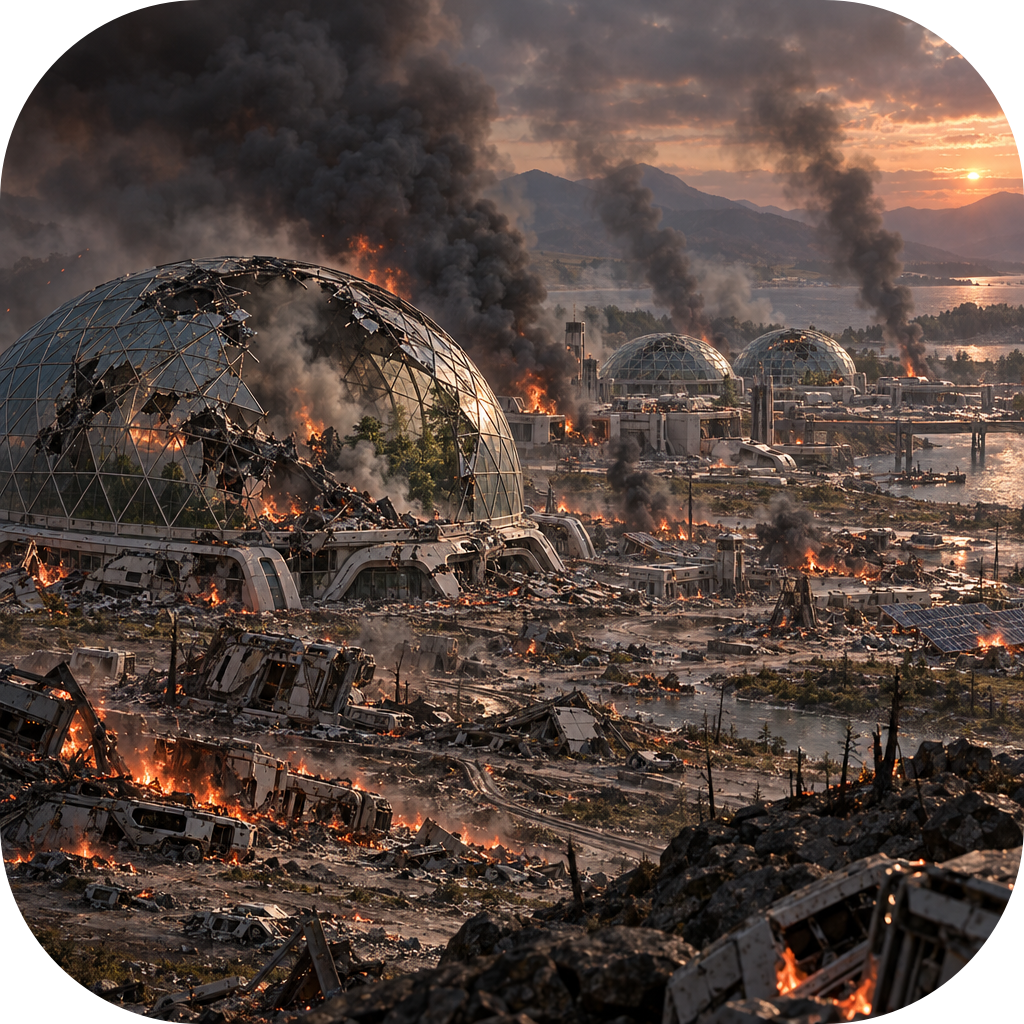
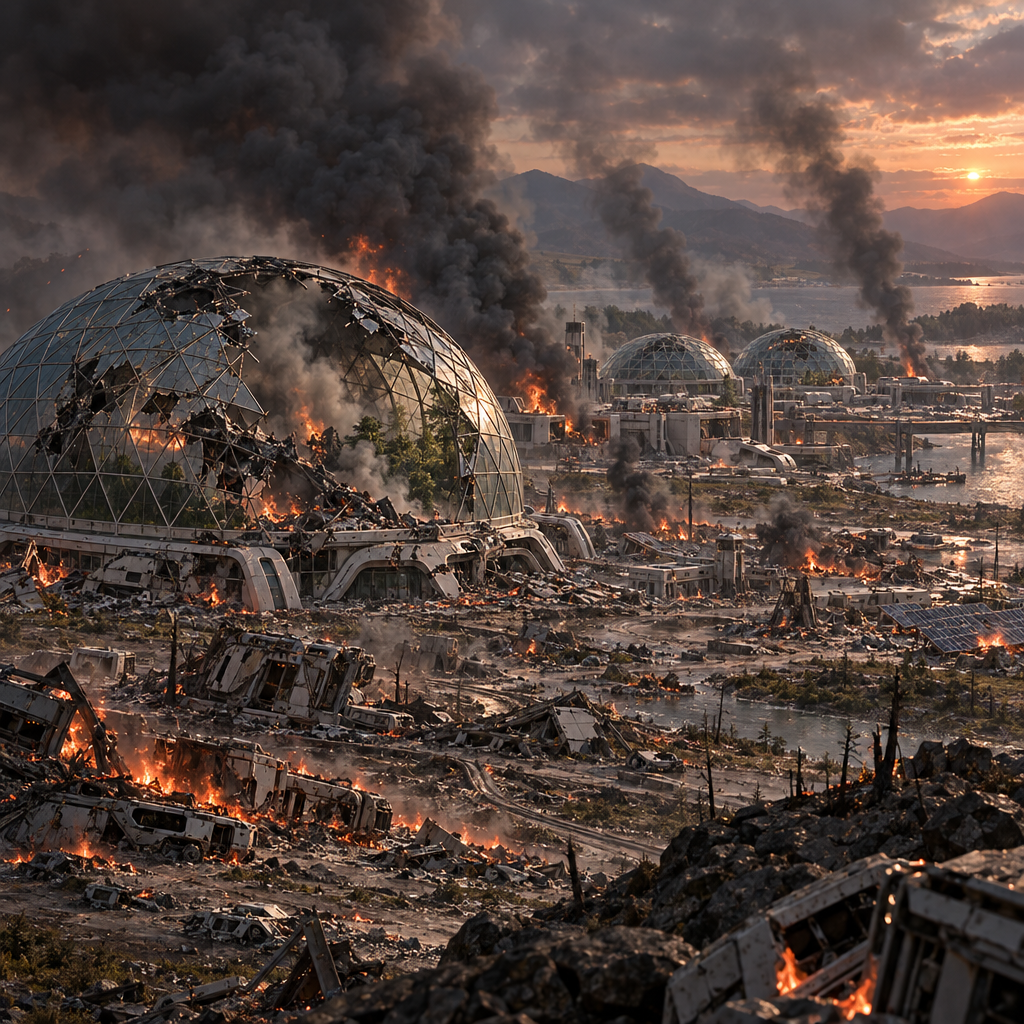
Domination & economic wins/losses use full-image terminal end screens
Generalized the conquest-only image end screen in declareVictory to a per-type
END_SCREENS map covering conquest (military), domination, and economic. A human
win shows <type>_victory.png and a rival win shows <type>_defeat.png, each on the
terminal Close-only showEndGameImage screen (sets _gameOver). The year-limit
'rating' type has no art and keeps the existing text dialog.

Added domination_victory/defeat and economic_victory art (and updated military
art). NOTE: economic_defeat.png is not yet present; the code references
resources/economic_defeat.png and showEndGameImage degrades gracefully (image
hidden via onerror) until that asset is added.

diff --git a/src/index.html b/src/index.html
@@ -19127,30 +19127,36 @@
         economic: 'by economic might — an unrivalled Federation treasury',
         rating: 'with the highest standing when the age came to a close',
       }[type] || 'by decree';
-      // MILITARY outcome (conquest = last species standing) gets a dedicated
-      // full-image, terminal end screen with a single Close button — the game is
-      // over, there is no "continue".
-      if (type === 'conquest') {
+      // Victory types that have dedicated full-image, TERMINAL end screens (a
+      // single Close button — the game is over, no "continue"): conquest
+      // (military), domination, and economic. Each maps to a victory/defeat image
+      // and a human-readable noun. The `rating` (year-limit) type has no art and
+      // falls through to the normal text announcement below.
+      const END_SCREENS = {
+        conquest:   { noun: 'Military',   victory: 'resources/military_victory.png',   defeat: 'resources/military_defeat.png' },
+        domination: { noun: 'Domination', victory: 'resources/domination_victory.png', defeat: 'resources/domination_defeat.png' },
+        economic:   { noun: 'Economic',   victory: 'resources/economic_victory.png',   defeat: 'resources/economic_defeat.png' },
+      };
+      const screen = END_SCREENS[type];
+      if (screen) {
         if (human) {
-          // Military VICTORY: the human is the last species standing.
+          // VICTORY — the human won this way. Terminal: nothing left to play for.
           gameState._gameOver = true;
           showEndGameImage(
-            'resources/military_victory.png',
-            'Military Victory — Zubrenn is Yours',
+            screen.victory,
+            `${screen.noun} Victory — Zubrenn is Yours`,
             `You have won the battle for Zubrenn ${reason}.`);
           return;
         }
-        if (ended) {
-          // Military DEFEAT: an alien conquered the planet and the human is gone.
-          // (_gameOver was already set above.)
-          showEndGameImage(
-            'resources/military_defeat.png',
-            'Military Defeat — The Battle for Zubrenn is Lost',
-            `${who} has conquered Zubrenn ${reason}. Your species has been driven from the planet.`);
-          return;
-        }
-        // (An AI conquest while the human somehow still holds a colony is not a
-        // real conquest end — fall through to the normal announcement.)
+        // DEFEAT — a rival won this way. End the game and show the defeat art.
+        // (For conquest the human is already eliminated/`ended`; for domination/
+        // economic the rival wins outright, so the human's game is over too.)
+        gameState._gameOver = true;
+        showEndGameImage(
+          screen.defeat,
+          `${screen.noun} Defeat — The Battle for Zubrenn is Lost`,
+          `${who} has won the battle for Zubrenn ${reason}.`);
+        return;
       }
       const title = human
         ? 'Victory — Zubrenn is Yours'
